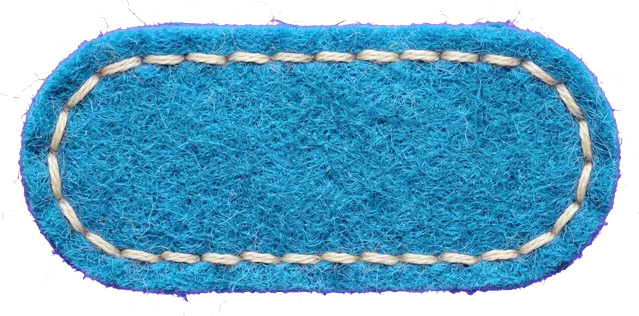
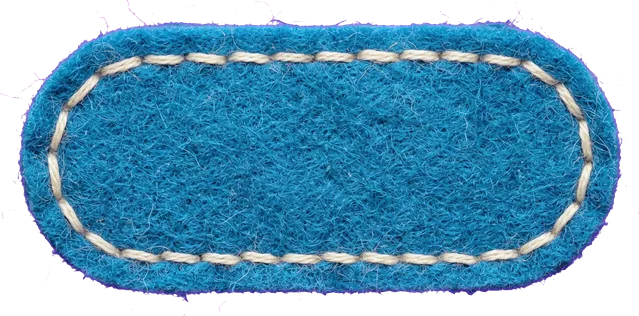
Blog language buttons in felt; blue felt a little darker
Claude-Session: https://claude.ai/code/session_01NGZ57BLqfmAdnsXYVQnQGN

Changed region(s): [[0.0297, 0.057, 0.9812, 0.9399]]

diff --git a/brand.css b/brand.css
@@ -138,11 +138,11 @@ nav a[aria-current="page"],nav button[aria-current="page"],.setbtn,.sndbtn:not(.
    The felt is a 9-slice border-image on ::before, so the caps stay round at any size.
    Set --fh (the pill height) per button; the felt grows outwards by its own fuzz. */
 :root{--felt-red:url(felt/btn-red.webp);--felt-blue:url(felt/btn-blue.webp);--felt-beige:url(felt/btn-beige.webp);--ink-felt:#4a3213}
-:is(.go,.cta,.setbtn,.sndbtn,.shufbtn,.pill,.lpbar .chip,.back,.fsbtn,nav a[aria-current="page"],nav button[aria-current="page"]){
+:is(.go,.cta,.setbtn,.sndbtn,.shufbtn,.pill,.lpbar .chip,.back,.fsbtn,.langs a,.langs b,nav a[aria-current="page"],nav button[aria-current="page"]){
   --felt:var(--felt-beige);--fh:44px;position:relative;isolation:isolate;box-sizing:border-box;height:var(--fh);min-height:0;
   border:0!important;outline:0;background:none!important;box-shadow:none!important;color:var(--ink-felt);text-shadow:0 1px 0 #fff8;
   transition:transform .12s,filter .12s}
-:is(.go,.cta,.setbtn,.sndbtn,.shufbtn,.pill,.lpbar .chip,.back,.fsbtn,nav a[aria-current="page"],nav button[aria-current="page"])::before{
+:is(.go,.cta,.setbtn,.sndbtn,.shufbtn,.pill,.lpbar .chip,.back,.fsbtn,.langs a,.langs b,nav a[aria-current="page"],nav button[aria-current="page"])::before{
   content:"";position:absolute;inset:0;z-index:-1;pointer-events:none;
   border:solid transparent;border-width:calc(var(--fh)*.5);
   border-image-source:var(--felt);border-image-slice:157 fill;border-image-width:calc(var(--fh)*.58);border-image-outset:calc(var(--fh)*.0926);border-image-repeat:round;
@@ -151,26 +151,28 @@ nav a[aria-current="page"],nav button[aria-current="page"],.setbtn,.sndbtn:not(.
 :root :is(.go,.cta){--felt:var(--felt-red);--fh:60px;color:#fff;text-shadow:0 1px 0 #6a120f;padding-inline:34px}
 :root .cta{--fh:64px;padding-inline:38px;font-size:20px}
 /* blue: standard and chosen */
-:root :is(.setbtn,.sndbtn:not(.muted),.shufbtn,.pill[aria-pressed="true"],.lpbar .chip.on,nav a[aria-current="page"],nav button[aria-current="page"]){--felt:var(--felt-blue);color:#fff;text-shadow:0 1px 0 #06415e}
+:root :is(.langs b,.setbtn,.sndbtn:not(.muted),.shufbtn,.pill[aria-pressed="true"],.lpbar .chip.on,nav a[aria-current="page"],nav button[aria-current="page"]){--felt:var(--felt-blue);color:#fff;text-shadow:0 1px 0 #06415e}
 :root .pill{--fh:46px}
 :root .lpbar .chip{--fh:46px}
 :root .sndbtn,:root .fsbtn{width:var(--fh);padding:0}
 :root .fsbtn.shufbtn{width:auto;padding:0 18px 0 12px}@media (max-width:640px){:root .fsbtn.shufbtn{width:var(--fh);padding:0}}
 :root .setbtn{--fh:48px}
 /* pressed, hover, disabled */
-:root :is(.go,.cta,.setbtn,.sndbtn,.shufbtn,.pill,.lpbar .chip,.back,.fsbtn):hover{filter:brightness(1.05);transform:translateY(-1px)}
-:root :is(.go,.cta,.setbtn,.sndbtn,.shufbtn,.pill,.lpbar .chip,.back,.fsbtn):active{transform:translateY(2px) scale(.985);filter:brightness(.93)}
+:root :is(.go,.cta,.setbtn,.sndbtn,.shufbtn,.pill,.lpbar .chip,.back,.fsbtn,.langs a,.langs b):hover{filter:brightness(1.05);transform:translateY(-1px)}
+:root :is(.go,.cta,.setbtn,.sndbtn,.shufbtn,.pill,.lpbar .chip,.back,.fsbtn,.langs a,.langs b):active{transform:translateY(2px) scale(.985);filter:brightness(.93)}
 :root :is(.go,.cta,.pill):disabled{opacity:.5;filter:grayscale(.6);transform:none}
-:root :is(.go,.cta,.setbtn,.sndbtn,.shufbtn,.pill,.lpbar .chip,.back,.fsbtn):focus-visible{outline:3px solid var(--yellow);outline-offset:6px}
+:root :is(.go,.cta,.setbtn,.sndbtn,.shufbtn,.pill,.lpbar .chip,.back,.fsbtn,.langs a,.langs b):focus-visible{outline:3px solid var(--yellow);outline-offset:6px}
 /* chips and pills keep their little code badge as a round felt-coloured disc */
 :root .pill .code,:root .lpbar .chip .code{background:#fff8;color:var(--ink-felt)}
 :root .pill[aria-pressed="true"] .code,:root .lpbar .chip.on .code{background:var(--yellow);color:#18264A}
 :root .setbtn .fill{border-radius:999px;opacity:.55;mix-blend-mode:multiply}
 :root .setbtn{overflow:visible}
 /* in the game bar everything is a slim 36px pill */
-:root.playing :is(.setbtn,.sndbtn,.shufbtn,.lpbar .chip,.back,.fsbtn){--fh:36px;min-height:0}
+:root.playing :is(.setbtn,.sndbtn,.shufbtn,.lpbar .chip,.back,.fsbtn,.langs a,.langs b){--fh:36px;min-height:0}
 html.playing .lpbar{padding-block:8px}
 :root.playing .fsbtn.shufbtn{width:auto}
 @media (max-width:640px){:root.playing .fsbtn.shufbtn{width:var(--fh)}}
 html.playing .lpbar .chip .code{width:26px;height:26px}
 html.playing .lpbar .play{padding:8px 6px;margin:-8px -6px}
+:root .langs a,:root .langs b{--fh:40px;padding:0 18px 0 12px;font-size:15px}
+:root .langs svg{border-radius:4px;box-shadow:0 0 0 1px #0003}
